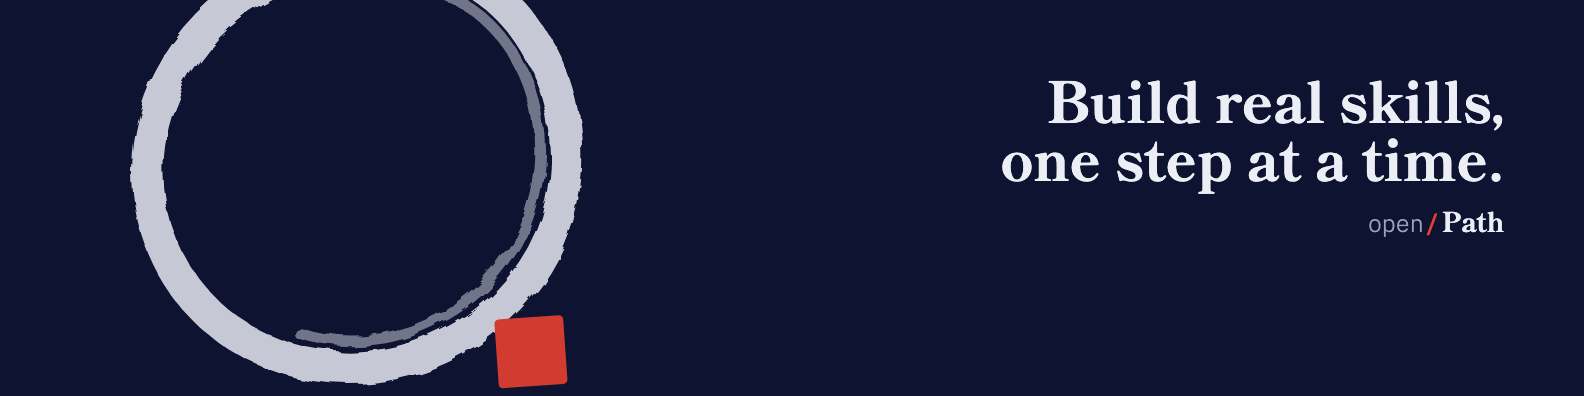
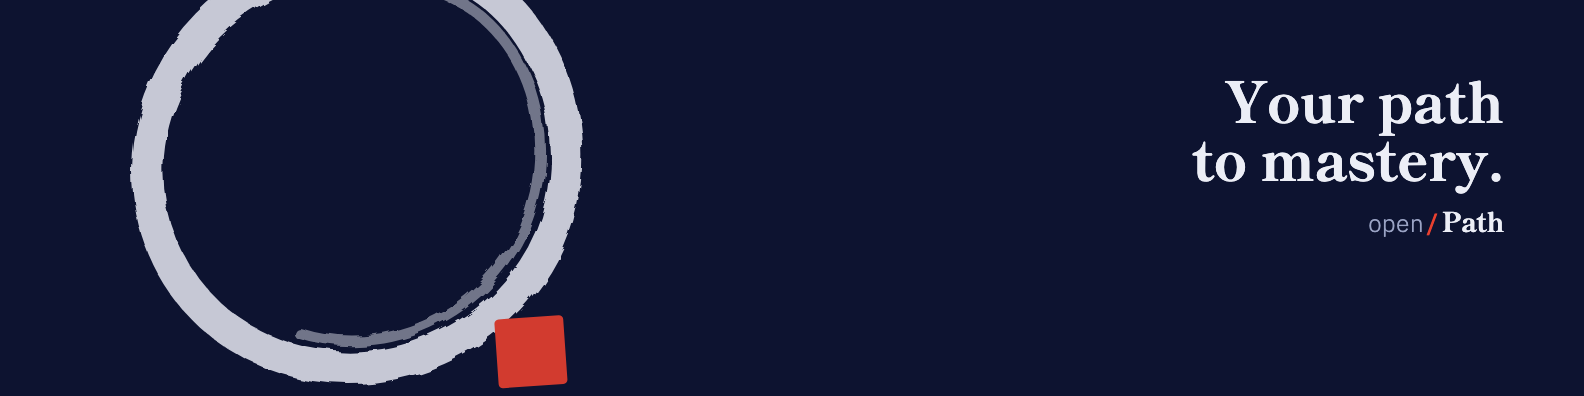
Change the tagline to "Your path to mastery."

Changed region(s): [[0.6187, 0.1818, 0.959, 0.4848]]

diff --git a/brand/src/banner-linkedin-1584x396.html b/brand/src/banner-linkedin-1584x396.html
@@ -10,4 +10,4 @@ h1{font:800 var(--h)/1.04 "Shippori Mincho B1",serif;margin:0}
 .w .o{font:300 1em/1 "IBM Plex Mono",monospace;letter-spacing:-.02em;color:#9aa3c4}.w .s{font:500 1em/1 "IBM Plex Mono",monospace;color:#e8402f;margin:0 .06em}.w .p{font:800 1.12em/1 "Shippori Mincho B1",serif;letter-spacing:-.01em}
 .enso{position:absolute}
 .t{position:absolute;z-index:1}
-.enso{left:70px;top:-120px;width:560px;opacity:.9}.t{right:80px;top:70px;text-align:right}.f{justify-content:flex-end}</style></head><body><div class="c" style="width:1584px;height:396px;--k:15px;--h:56px;--g:14px;--g2:22px"><svg class="enso" viewBox="0 0 520 520"><defs><filter id="r" x="-10%" y="-10%" width="120%" height="120%"><feTurbulence type="fractalNoise" baseFrequency="0.035" numOctaves="3" seed="7" result="n"/><feDisplacementMap in="SourceGraphic" in2="n" scale="9"/></filter></defs><g filter="url(#r)" fill="none" stroke-linecap="round" stroke="#eceef6"><path stroke-width="30" opacity=".92" d="M 292 74 C 410 70 480 190 456 300 C 432 412 308 478 200 444 C 92 410 40 290 92 186 C 130 110 214 66 292 78"/><path stroke-width="10" opacity=".5" d="M 300 96 C 398 100 452 196 432 290 C 410 392 304 450 212 420"/></g><rect x="396" y="406" width="64" height="64" rx="4" fill="#e8402f" transform="rotate(-4 428 438)"/></svg><div class="t"><h1>Build real skills,<br>one step at a time.</h1><div class="f"><span class="w"><span class="o">open</span><span class="s">/</span><span class="p">Path</span></span></div></div></div></body></html>
+.enso{left:70px;top:-120px;width:560px;opacity:.9}.t{right:80px;top:70px;text-align:right}.f{justify-content:flex-end}</style></head><body><div class="c" style="width:1584px;height:396px;--k:15px;--h:56px;--g:14px;--g2:22px"><svg class="enso" viewBox="0 0 520 520"><defs><filter id="r" x="-10%" y="-10%" width="120%" height="120%"><feTurbulence type="fractalNoise" baseFrequency="0.035" numOctaves="3" seed="7" result="n"/><feDisplacementMap in="SourceGraphic" in2="n" scale="9"/></filter></defs><g filter="url(#r)" fill="none" stroke-linecap="round" stroke="#eceef6"><path stroke-width="30" opacity=".92" d="M 292 74 C 410 70 480 190 456 300 C 432 412 308 478 200 444 C 92 410 40 290 92 186 C 130 110 214 66 292 78"/><path stroke-width="10" opacity=".5" d="M 300 96 C 398 100 452 196 432 290 C 410 392 304 450 212 420"/></g><rect x="396" y="406" width="64" height="64" rx="4" fill="#e8402f" transform="rotate(-4 428 438)"/></svg><div class="t"><h1>Your path<br>to mastery.</h1><div class="f"><span class="w"><span class="o">open</span><span class="s">/</span><span class="p">Path</span></span></div></div></div></body></html>

diff --git a/brand/src/banner-x-1500x500.html b/brand/src/banner-x-1500x500.html
@@ -10,4 +10,4 @@ h1{font:800 var(--h)/1.04 "Shippori Mincho B1",serif;margin:0}
 .w .o{font:300 1em/1 "IBM Plex Mono",monospace;letter-spacing:-.02em;color:#9aa3c4}.w .s{font:500 1em/1 "IBM Plex Mono",monospace;color:#e8402f;margin:0 .06em}.w .p{font:800 1.12em/1 "Shippori Mincho B1",serif;letter-spacing:-.01em}
 .enso{position:absolute}
 .t{position:absolute;z-index:1}
-.enso{left:40px;top:-140px;width:660px;opacity:.9}.t{right:80px;top:96px;text-align:right}.f{justify-content:flex-end}</style></head><body><div class="c" style="width:1500px;height:500px;--k:16px;--h:64px;--g:16px;--g2:26px"><svg class="enso" viewBox="0 0 520 520"><defs><filter id="r" x="-10%" y="-10%" width="120%" height="120%"><feTurbulence type="fractalNoise" baseFrequency="0.035" numOctaves="3" seed="7" result="n"/><feDisplacementMap in="SourceGraphic" in2="n" scale="9"/></filter></defs><g filter="url(#r)" fill="none" stroke-linecap="round" stroke="#eceef6"><path stroke-width="30" opacity=".92" d="M 292 74 C 410 70 480 190 456 300 C 432 412 308 478 200 444 C 92 410 40 290 92 186 C 130 110 214 66 292 78"/><path stroke-width="10" opacity=".5" d="M 300 96 C 398 100 452 196 432 290 C 410 392 304 450 212 420"/></g><rect x="396" y="406" width="64" height="64" rx="4" fill="#e8402f" transform="rotate(-4 428 438)"/></svg><div class="t"><h1>Build real skills,<br>one step at a time.</h1><div class="f"><span class="w"><span class="o">open</span><span class="s">/</span><span class="p">Path</span></span></div></div></div></body></html>
+.enso{left:40px;top:-140px;width:660px;opacity:.9}.t{right:80px;top:96px;text-align:right}.f{justify-content:flex-end}</style></head><body><div class="c" style="width:1500px;height:500px;--k:16px;--h:64px;--g:16px;--g2:26px"><svg class="enso" viewBox="0 0 520 520"><defs><filter id="r" x="-10%" y="-10%" width="120%" height="120%"><feTurbulence type="fractalNoise" baseFrequency="0.035" numOctaves="3" seed="7" result="n"/><feDisplacementMap in="SourceGraphic" in2="n" scale="9"/></filter></defs><g filter="url(#r)" fill="none" stroke-linecap="round" stroke="#eceef6"><path stroke-width="30" opacity=".92" d="M 292 74 C 410 70 480 190 456 300 C 432 412 308 478 200 444 C 92 410 40 290 92 186 C 130 110 214 66 292 78"/><path stroke-width="10" opacity=".5" d="M 300 96 C 398 100 452 196 432 290 C 410 392 304 450 212 420"/></g><rect x="396" y="406" width="64" height="64" rx="4" fill="#e8402f" transform="rotate(-4 428 438)"/></svg><div class="t"><h1>Your path<br>to mastery.</h1><div class="f"><span class="w"><span class="o">open</span><span class="s">/</span><span class="p">Path</span></span></div></div></div></body></html>

diff --git a/brand/src/github-social-1280x640.html b/brand/src/github-social-1280x640.html
@@ -10,4 +10,4 @@ h1{font:800 var(--h)/1.04 "Shippori Mincho B1",serif;margin:0}
 .w .o{font:300 1em/1 "IBM Plex Mono",monospace;letter-spacing:-.02em;color:#9aa3c4}.w .s{font:500 1em/1 "IBM Plex Mono",monospace;color:#e8402f;margin:0 .06em}.w .p{font:800 1.12em/1 "Shippori Mincho B1",serif;letter-spacing:-.01em}
 .enso{position:absolute}
 .t{position:absolute;z-index:1}
-.enso{right:50px;top:90px;width:470px}.t{left:84px;top:150px;max-width:720px}</style></head><body><div class="c" style="width:1280px;height:640px;--k:20px;--h:72px;--g:26px;--g2:44px"><svg class="enso" viewBox="0 0 520 520"><defs><filter id="r" x="-10%" y="-10%" width="120%" height="120%"><feTurbulence type="fractalNoise" baseFrequency="0.035" numOctaves="3" seed="7" result="n"/><feDisplacementMap in="SourceGraphic" in2="n" scale="9"/></filter></defs><g filter="url(#r)" fill="none" stroke-linecap="round" stroke="#eceef6"><path stroke-width="30" opacity=".92" d="M 292 74 C 410 70 480 190 456 300 C 432 412 308 478 200 444 C 92 410 40 290 92 186 C 130 110 214 66 292 78"/><path stroke-width="10" opacity=".5" d="M 300 96 C 398 100 452 196 432 290 C 410 392 304 450 212 420"/></g><rect x="396" y="406" width="64" height="64" rx="4" fill="#e8402f" transform="rotate(-4 428 438)"/></svg><div class="t"><h1>Build real skills,<br>one step at a time.</h1><div class="f"><span class="w"><span class="o">open</span><span class="s">/</span><span class="p">Path</span></span></div></div></div></body></html>
+.enso{right:50px;top:90px;width:470px}.t{left:84px;top:150px;max-width:720px}</style></head><body><div class="c" style="width:1280px;height:640px;--k:20px;--h:72px;--g:26px;--g2:44px"><svg class="enso" viewBox="0 0 520 520"><defs><filter id="r" x="-10%" y="-10%" width="120%" height="120%"><feTurbulence type="fractalNoise" baseFrequency="0.035" numOctaves="3" seed="7" result="n"/><feDisplacementMap in="SourceGraphic" in2="n" scale="9"/></filter></defs><g filter="url(#r)" fill="none" stroke-linecap="round" stroke="#eceef6"><path stroke-width="30" opacity=".92" d="M 292 74 C 410 70 480 190 456 300 C 432 412 308 478 200 444 C 92 410 40 290 92 186 C 130 110 214 66 292 78"/><path stroke-width="10" opacity=".5" d="M 300 96 C 398 100 452 196 432 290 C 410 392 304 450 212 420"/></g><rect x="396" y="406" width="64" height="64" rx="4" fill="#e8402f" transform="rotate(-4 428 438)"/></svg><div class="t"><h1>Your path<br>to mastery.</h1><div class="f"><span class="w"><span class="o">open</span><span class="s">/</span><span class="p">Path</span></span></div></div></div></body></html>

diff --git a/brand/src/og-image-1200x630.html b/brand/src/og-image-1200x630.html
@@ -10,4 +10,4 @@ h1{font:800 var(--h)/1.04 "Shippori Mincho B1",serif;margin:0}
 .w .o{font:300 1em/1 "IBM Plex Mono",monospace;letter-spacing:-.02em;color:#9aa3c4}.w .s{font:500 1em/1 "IBM Plex Mono",monospace;color:#e8402f;margin:0 .06em}.w .p{font:800 1.12em/1 "Shippori Mincho B1",serif;letter-spacing:-.01em}
 .enso{position:absolute}
 .t{position:absolute;z-index:1}
-.enso{right:60px;top:110px;width:420px;opacity:.9}.t{left:90px;top:150px}</style></head><body><div class="c" style="width:1200px;height:630px;--k:20px;--h:84px;--g:16px;--g2:44px"><svg class="enso" viewBox="0 0 520 520"><defs><filter id="r" x="-10%" y="-10%" width="120%" height="120%"><feTurbulence type="fractalNoise" baseFrequency="0.035" numOctaves="3" seed="7" result="n"/><feDisplacementMap in="SourceGraphic" in2="n" scale="9"/></filter></defs><g filter="url(#r)" fill="none" stroke-linecap="round" stroke="#eceef6"><path stroke-width="30" opacity=".92" d="M 292 74 C 410 70 480 190 456 300 C 432 412 308 478 200 444 C 92 410 40 290 92 186 C 130 110 214 66 292 78"/><path stroke-width="10" opacity=".5" d="M 300 96 C 398 100 452 196 432 290 C 410 392 304 450 212 420"/></g><rect x="396" y="406" width="64" height="64" rx="4" fill="#e8402f" transform="rotate(-4 428 438)"/></svg><div class="t"><h1>Build real skills,<br>one step at a time.</h1><div class="f"><span class="w"><span class="o">open</span><span class="s">/</span><span class="p">Path</span></span></div></div></div></body></html>
+.enso{right:60px;top:110px;width:420px;opacity:.9}.t{left:90px;top:150px}</style></head><body><div class="c" style="width:1200px;height:630px;--k:20px;--h:84px;--g:16px;--g2:44px"><svg class="enso" viewBox="0 0 520 520"><defs><filter id="r" x="-10%" y="-10%" width="120%" height="120%"><feTurbulence type="fractalNoise" baseFrequency="0.035" numOctaves="3" seed="7" result="n"/><feDisplacementMap in="SourceGraphic" in2="n" scale="9"/></filter></defs><g filter="url(#r)" fill="none" stroke-linecap="round" stroke="#eceef6"><path stroke-width="30" opacity=".92" d="M 292 74 C 410 70 480 190 456 300 C 432 412 308 478 200 444 C 92 410 40 290 92 186 C 130 110 214 66 292 78"/><path stroke-width="10" opacity=".5" d="M 300 96 C 398 100 452 196 432 290 C 410 392 304 450 212 420"/></g><rect x="396" y="406" width="64" height="64" rx="4" fill="#e8402f" transform="rotate(-4 428 438)"/></svg><div class="t"><h1>Your path<br>to mastery.</h1><div class="f"><span class="w"><span class="o">open</span><span class="s">/</span><span class="p">Path</span></span></div></div></div></body></html>

diff --git a/brand/src/banner-youtube-2560x1440.html b/brand/src/banner-youtube-2560x1440.html
@@ -10,4 +10,4 @@ h1{font:800 var(--h)/1.04 "Shippori Mincho B1",serif;margin:0}
 .w .o{font:300 1em/1 "IBM Plex Mono",monospace;letter-spacing:-.02em;color:#9aa3c4}.w .s{font:500 1em/1 "IBM Plex Mono",monospace;color:#e8402f;margin:0 .06em}.w .p{font:800 1.12em/1 "Shippori Mincho B1",serif;letter-spacing:-.01em}
 .enso{position:absolute}
 .t{position:absolute;z-index:1}
-.enso{left:540px;top:520px;width:400px}.t{left:1010px;top:590px}</style></head><body><div class="c" style="width:2560px;height:1440px;--k:20px;--h:76px;--g:18px;--g2:30px"><svg class="enso" viewBox="0 0 520 520"><defs><filter id="r" x="-10%" y="-10%" width="120%" height="120%"><feTurbulence type="fractalNoise" baseFrequency="0.035" numOctaves="3" seed="7" result="n"/><feDisplacementMap in="SourceGraphic" in2="n" scale="9"/></filter></defs><g filter="url(#r)" fill="none" stroke-linecap="round" stroke="#eceef6"><path stroke-width="30" opacity=".92" d="M 292 74 C 410 70 480 190 456 300 C 432 412 308 478 200 444 C 92 410 40 290 92 186 C 130 110 214 66 292 78"/><path stroke-width="10" opacity=".5" d="M 300 96 C 398 100 452 196 432 290 C 410 392 304 450 212 420"/></g><rect x="396" y="406" width="64" height="64" rx="4" fill="#e8402f" transform="rotate(-4 428 438)"/></svg><div class="t"><h1>Build real skills,<br>one step at a time.</h1><div class="f"><span class="w"><span class="o">open</span><span class="s">/</span><span class="p">Path</span></span></div></div></div></body></html>
+.enso{left:540px;top:520px;width:400px}.t{left:1010px;top:590px}</style></head><body><div class="c" style="width:2560px;height:1440px;--k:20px;--h:76px;--g:18px;--g2:30px"><svg class="enso" viewBox="0 0 520 520"><defs><filter id="r" x="-10%" y="-10%" width="120%" height="120%"><feTurbulence type="fractalNoise" baseFrequency="0.035" numOctaves="3" seed="7" result="n"/><feDisplacementMap in="SourceGraphic" in2="n" scale="9"/></filter></defs><g filter="url(#r)" fill="none" stroke-linecap="round" stroke="#eceef6"><path stroke-width="30" opacity=".92" d="M 292 74 C 410 70 480 190 456 300 C 432 412 308 478 200 444 C 92 410 40 290 92 186 C 130 110 214 66 292 78"/><path stroke-width="10" opacity=".5" d="M 300 96 C 398 100 452 196 432 290 C 410 392 304 450 212 420"/></g><rect x="396" y="406" width="64" height="64" rx="4" fill="#e8402f" transform="rotate(-4 428 438)"/></svg><div class="t"><h1>Your path<br>to mastery.</h1><div class="f"><span class="w"><span class="o">open</span><span class="s">/</span><span class="p">Path</span></span></div></div></div></body></html>

diff --git a/src/pages/index.html b/src/pages/index.html
@@ -1,7 +1,7 @@
 <main class="home">
   <header class="hero" id="top"><div class="enso-wrap" aria-hidden="true"><svg class="enso" viewBox="0 0 520 520"><defs><filter id="rough" x="-10%" y="-10%" width="120%" height="120%"><feTurbulence type="fractalNoise" baseFrequency="0.035" numOctaves="3" seed="7" result="n"/><feDisplacementMap in="SourceGraphic" in2="n" scale="9"/></filter></defs><g filter="url(#rough)" fill="none" stroke-linecap="round" stroke="var(--fg)"><path class="stroke" pathLength="1" stroke-width="30" opacity=".92" d="M 292 74 C 410 70 480 190 456 300 C 432 412 308 478 200 444 C 92 410 40 290 92 186 C 130 110 214 66 292 78"/><path class="stroke" pathLength="1" stroke-width="10" opacity=".5" d="M 300 96 C 398 100 452 196 432 290 C 410 392 304 450 212 420"/></g><g class="stamp" style="transform-origin: 428px 438px; transform-box: view-box;"><rect x="396" y="406" width="64" height="64" rx="4" fill="var(--red)" transform="rotate(-4 428 438)"/></g></svg></div>
     <p class="mono kicker">A free, self-paced learning initiative</p>
-    <h1>Build real skills, one step at a time.</h1>
+    <h1>Your path to mastery.</h1>
     <p class="lead">Free, detailed notes laid out as step-by-step paths. Pick a path, work through it in order, and build something real as you go.</p>
     <div class="cta"><a class="btn" href="#paths">Choose a path</a><a class="link" href="#how">How it works</a></div>
   </header>

diff --git a/build.js b/build.js
@@ -11,7 +11,7 @@ const { NOTES, PHASES, MODULES } = require('./curriculum.js');
 const SITE = 'https://d-kens.github.io/open-path';       /* the live address, without a trailing slash */
 const BASE = new URL(SITE).pathname + '/';              /* '/open-path/': the 404 page needs absolute links */
 const NAME = 'Open Path';
-const HOME_DESC = 'Build real skills, one step at a time. Free, detailed notes laid out as step-by-step paths you can follow at your own pace.';
+const HOME_DESC = 'Your path to mastery. Free, detailed notes laid out as step-by-step paths you can follow at your own pace.';
 const ASSETS = ['styles.css', 'theme.js', 'search.js', 'notes.js', 'favicon.svg', 'og-image.png'];
 const LABEL = { published: 'Notes published', progress: 'In progress', coming: 'Coming' };
 const PATH_NAME = 'DevOps';   /* the one path so far; curriculum.js holds its modules */

diff --git a/brand/posts/src/tiktok-launch-1080x1920.html b/brand/posts/src/tiktok-launch-1080x1920.html
@@ -23,7 +23,7 @@ h1{font:800 116px/1.02 var(--d);letter-spacing:-.01em}
 <div class="top"><div class="logo"><span class="w"><span class="o">open</span><span class="s">/</span><span class="p">Path</span></span></div></div>
 <div class="body">
   <p class="k">Hello, world · Post 01</p>
-  <h1>Build real skills, one step at a time.</h1>
+  <h1>Your path to mastery.</h1>
   <div class="facts"><span>First path: DevOps</span><span>21 modules</span><span>Free</span></div>
   <p><span class="url">d-kens.github.io/open-path</span></p>
 </div>

diff --git a/README.md b/README.md
@@ -1,6 +1,6 @@
 # Open Path
 
-Build real skills, one step at a time. A static site of free, detailed notes laid out as step-by-step paths. The first path is DevOps, from the mindset to running systems in production.
+Your path to mastery. A static site of free, detailed notes laid out as step-by-step paths. The first path is DevOps, from the mindset to running systems in production.
 
 Live at <https://d-kens.github.io/open-path/>.
 
